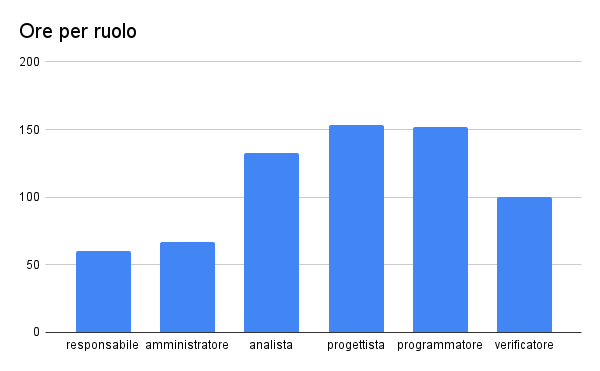
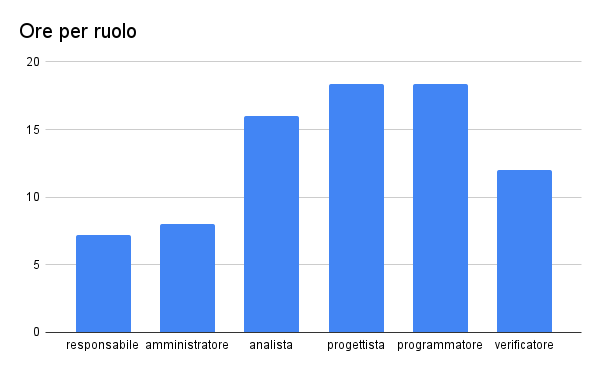
Completata stesura del preventivo dei costi close #17

diff --git a/assegnazione_appalti/preventivo_costi/contenuti/contenuto.tex b/assegnazione_appalti/preventivo_costi/contenuti/contenuto.tex
@@ -4,24 +4,24 @@ Il tredicesimo gruppo composto da 7 studenti si impegna in toto a contribuire pe
 
 Suddette ore verranno suddivise come segue, tenendo conto dei ruoli definiti.
 
-Viene inoltre applicato un \textbf{10\%} di coefficente di rendimento nel conteggio di ore reali rispetto alle ore produttive.
-
 \begin{center}
     \begin{tabularx}{10cm}{X |l|l}
         \textbf{Ruolo}  & \textbf{Costo orario} & \textbf{Ore per ruolo} \\
         \hline
-        Responsabile    & §30                   & 60                     \\
-        Amministratore  & §20                   & 67                     \\
-        Analista        & §25                   & 133                    \\
-        Progettista     & §25                   & 153                    \\
-        Programmatore   & §15                   & 152                    \\
-        Verificatore    & §15                   & 100                    \\
+        Responsabile    & €30                   & 60                     \\
+        Amministratore  & €20                   & 67                     \\
+        Analista        & €25                   & 133                    \\
+        Progettista     & €25                   & 153                    \\
+        Programmatore   & €15                   & 152                    \\
+        Verificatore    & €15                   & 100                    \\
         \hline
-        \textbf{Totale} & §14064,75             & 665
+        \textbf{Totale} & €14064,75             & 665
     \end{tabularx}
 \end{center}
 
-La distribuzione per ruolo è quindi come segue.
+Immaginiamo poi di spendere un \textbf{20\%} aggiuntivo di ore reali rispetto alle ore produttive qui sopra redatte. Questo rendimento tenderà a migliorare durante tutto lo svolgimento del progetto.
+
+Le distribuzioni di costi e ore per ruolo è come segue.
 
 \begin{minipage}[c][][c]{0.49\linewidth}
     \includegraphics[width=\textwidth]{immagini/Costo ruolo.png}
@@ -34,7 +34,13 @@ Ogni ruolo avrà inoltre rotazione costante e sistematica ma le ore preventivate
 
 \begin{center}
     \begin{tabularx}{13cm}{X |l l l l l l| X}
-        \textbf{Nome}   & \textbf{re} & \textbf{am} & \textbf{an} & \textbf{pro} & \textbf{prog} & \textbf{ve} & \textbf{Totale} \\
+        \textbf{Nome} & \textbf{re}\footnote{Responsabile}
+        & \textbf{am}\footnote{Amministratore e amministratore di sistema}
+        & \textbf{an}\footnote{Analista}
+        & \textbf{pro}\footnote{Progettista}
+        & \textbf{prog}\footnote{Programmatore}
+        & \textbf{ve}\footnote{Verificatore}
+        & \textbf{Totale} \\
         \hline
         Alessandro      & 9           & 8           & 18          & 24           & 20            & 16          & 95              \\
         Davide          & 9           & 10          & 18          & 22           & 23            & 13          & 95              \\
@@ -50,7 +56,7 @@ Ogni ruolo avrà inoltre rotazione costante e sistematica ma le ore preventivate
 
 \section{Ruoli e considerazioni}
 
-\paragraph{Responsabile} Dopo attenta analisi il numero di ore di responsabile risulta ridotta in quanto ce ne sarà molto bisogno nelle fasi iniziali ma nel tempo la tendenza sarà quella dell'autogestione.
+\paragraph{Responsabile} Dopo attenta analisi il numero di ore di responsabile risulta ridotta in quanto ce ne sarà molto bisogno nelle fasi iniziali ma nel tempo la tendenza sarà quella dell'autogestione. Chiaramente il responsabile durante tutto il progetto sarà presente e farà da punto di contatto con il cliente ed il committente.
 
 \paragraph{Amministratore} Sarà una delle figure più importanti nelle fasi di avviamento del progetto in quanto sarà suo onere improntare e controllare che tutte le procedure siano eseguite a regola d'arte e seguendo i corretti standard. Anche questa figura tenderà a sfumare con l'avvenire del progetto.
 
@@ -64,10 +70,10 @@ Ogni ruolo avrà inoltre rotazione costante e sistematica ma le ore preventivate
 
 \section{Costi}
 
-Il preventivo per la realizzazione del progetto ammonta quindi a §14064,75 che arrotondiamo per eccesso e tenendo a mente possibili imprevisti a \textbf{§14100,00}
+Il preventivo per la realizzazione del progetto ammonta quindi a €14064,75 che arrotondiamo per eccesso e tenendo a mente possibili imprevisti a \textbf{€14100,00}
 
 \section{Consegna}
 
-La previsione di consegna viene calcolando una media di \textbf{12} ore settimanali dedicate al progetto. Risultano quindi 9 settimane per terminare lo stesso.
+La previsione di consegna viene calcolando una media di \textbf{8} ore settimanali dedicate al progetto. Risultano quindi 12 settimane per terminare lo stesso.
 
-Tenendo quindi conto anche di possibili imprevisti, giorni non lavorativi e cause di forza maggiore non ad ora preventivabili, la previsione di consegna chiavi in mano si attesta oggi al \textbf{06 marzo 2023}
+Tenendo quindi conto anche di possibili imprevisti, giorni non lavorativi e cause di forza maggiore non ad ora preventivabili, la previsione di consegna chiavi in mano si attesta oggi al \textbf{26 aprile 2023}

diff --git a/assegnazione_appalti/preventivo_costi/preventivo-costi.tex b/assegnazione_appalti/preventivo_costi/preventivo-costi.tex
@@ -1,35 +1,51 @@
 \documentclass{article}
 \input{config}
 
-\setlength{\parindent}{0em}
-\setlength{\parskip}{0.7em}
-
-\titlespacing*{\section}{0pt}{0.7em}{0.5em}
-\titlespacing*{\subsection}{0pt}{0.7em}{0.5em}
+\renewcommand{\title}{Preventivo costi}
 
 \begin{document}
 
 \begin{center}
-    
-    \includegraphics[width=0.3\textwidth]{../../assets_globali/img/logo_unipd.png}
 
-    Università di Padova
+    \begin{center}
+        \begin{minipage}{0.49\linewidth}
+            \begin{flushleft}
     
-    A.A. 2022/2023
+            \begin{minipage}{0.5\linewidth}
+            \begin{center}
+            \includegraphics[width=1\linewidth]{../../assets_globali/img/logo_unipd.png}
+            
+            \normalsize Università di Padova
+            
+            \end{center}
+            \end{minipage}
+            \end{flushleft}
+        \end{minipage}
+        \begin{minipage}{0.49\linewidth}
+            \begin{flushright}
     
-    \vspace{4cm}
-
-    \includegraphics[width=0.25\textwidth]{../../assets_globali/img/logo_13.png}
+            \begin{minipage}{0.5\linewidth}
+            \begin{center}
     
-    \Large SWEasabi
+            \Large SWEasabi
+    
+            \tiny Green and spicy software
+    
+            \includegraphics[width=0.67\linewidth]{../../assets_globali/img/logo_13.png}
+            
+            \small sweasabi@gmail.com
+    
+            \end{center}
+            \end{minipage}
+            \end{flushright}
+        \end{minipage}
+    \end{center}
 
-    \tiny Green and spicy software
-
-    \small sweasabi@gmail.com
-        
     \vspace{2cm}
 
-    \Huge Preventivo costi
+    \normalsize Corso di Ingegneria del Software A.A.:2022/2023
+    
+    \Huge \title
         
     \vspace{2cm}
     
@@ -37,17 +53,16 @@
     \begin{center}
         \begin{tabularx}{7cm}{l | X}            
             \textbf{Approvazione} & Massarenti Alessandro\\
-            \textbf{Redazione} & Bonavigo Michele \\
-            & Romano Davide\\
+            \textbf{Redazione} & Peron Samuel\\
+            &Massarenti Alessandro\\
             \textbf{Verifica} & Pierobon Luca\\
             \hline
             \textbf{Uso} & Esterno\\
+            \textbf{Destinatario} & Committente\\
         \end{tabularx}
     \end{center}
         
 \end{center}
-
-\newpage
 
 \tableofcontents
 

diff --git a/assegnazione_appalti/preventivo_costi/config.tex b/assegnazione_appalti/preventivo_costi/config.tex
@@ -33,3 +33,9 @@ total = {130mm, 240mm},
 left = 40mm,
 top = 20mm,
 }
+
+\setlength{\parindent}{0em}
+\setlength{\parskip}{0.7em}
+
+\titlespacing*{\section}{0pt}{0.7em}{0.5em}
+\titlespacing*{\subsection}{0pt}{0.7em}{0.5em}
